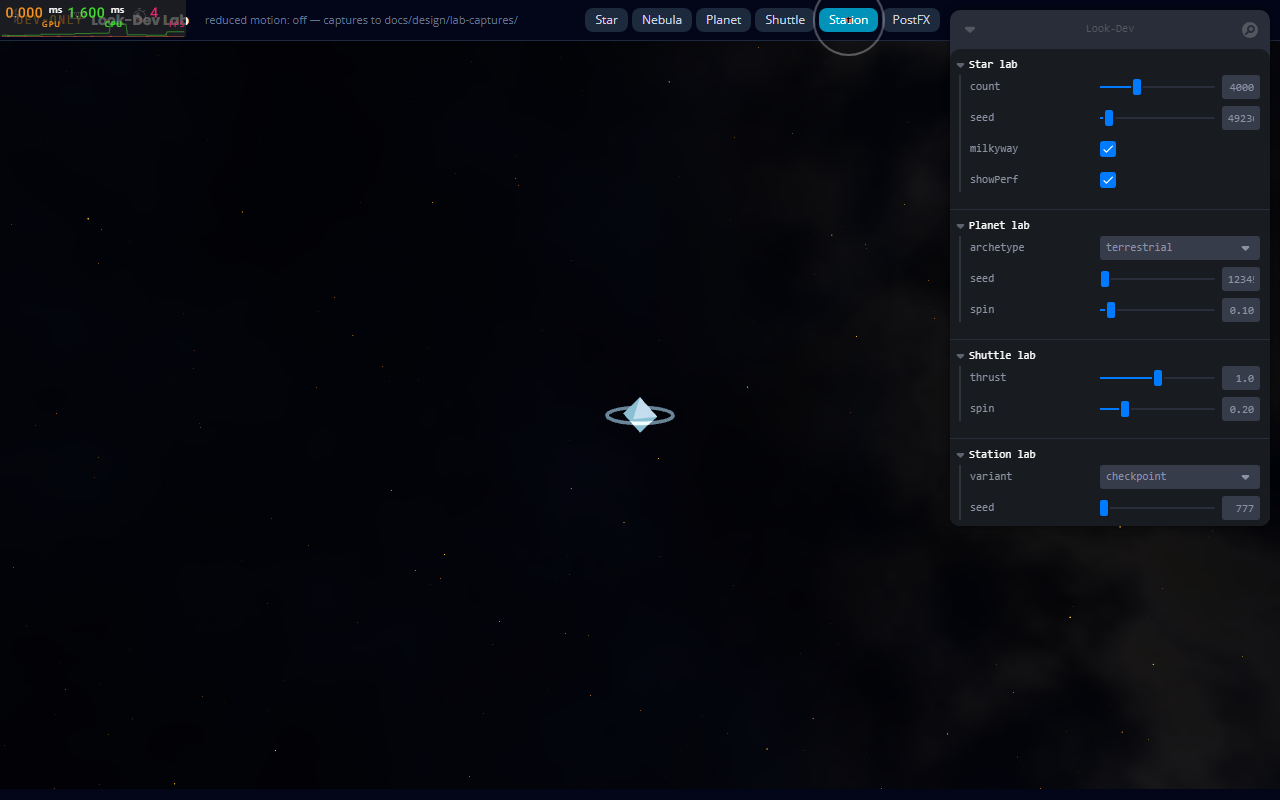
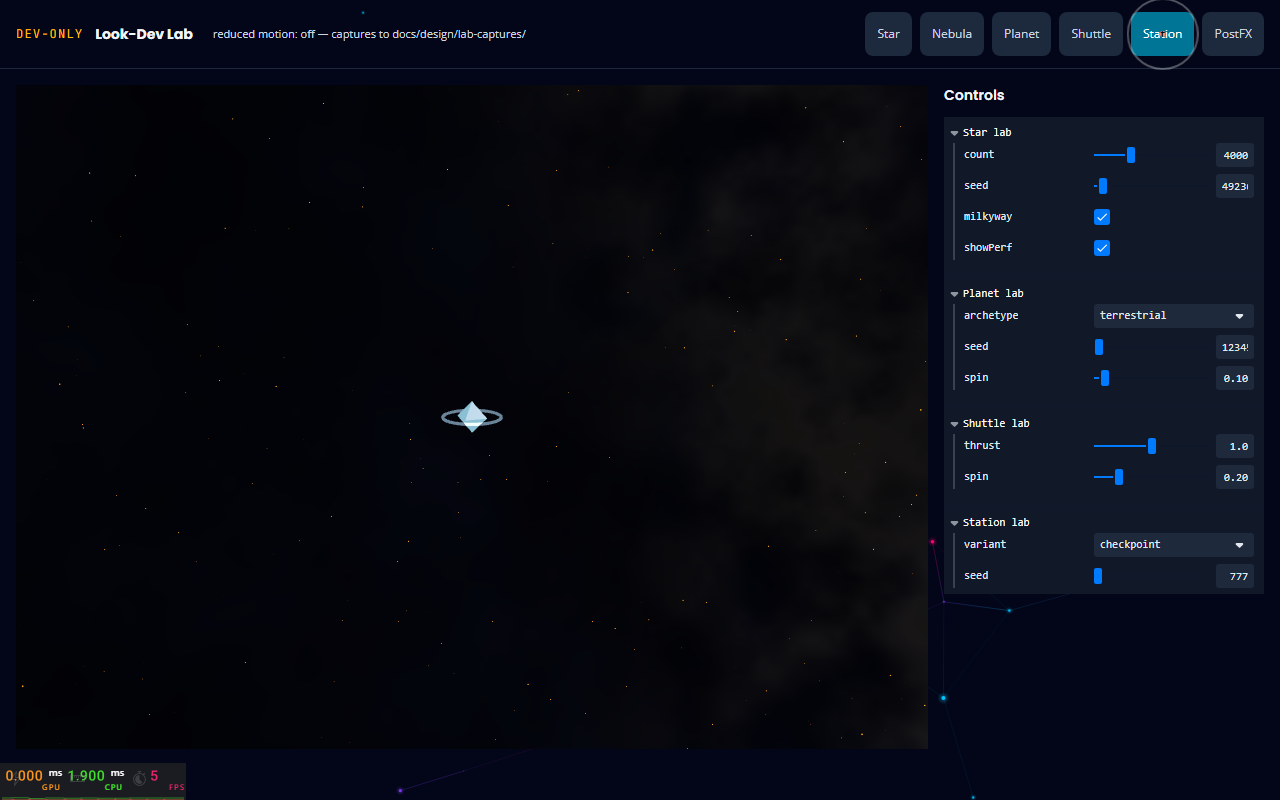
Make Lab controls accessible and keep dev tooling out of production
Reflow controls instead of covering mobile navigation, test pointer and keyboard access at four widths, and scan Leva without exclusions. Gate the lazy import itself and make asset capture tests require the selected variant and reject shader errors.

diff --git a/FrontEnd/src/cosmic/LookDevLab.jsx b/FrontEnd/src/cosmic/LookDevLab.jsx
@@ -153,36 +153,40 @@ export default function LookDevLab() {
 
   return (
     <div className="min-h-screen bg-slate-950 text-slate-100" data-testid="look-dev-lab">
-      <Leva
-        titleBar={{ title: 'Look-Dev' }}
-        collapsed={false}
-        theme={{ sizes: { rootWidth: '320px' } }}
-      />
-      <header className="flex items-center gap-2 pl-4 pr-[340px] py-2 border-b border-slate-800">
+      <header className="flex flex-wrap items-center gap-3 px-4 py-3 border-b border-slate-800">
         <span className="text-xs font-mono uppercase tracking-widest text-amber-400">dev-only</span>
         <h1 className="text-sm font-bold">Look-Dev Lab</h1>
-        <p className="text-[11px] text-slate-500 ml-2">reduced motion: {reduced ? 'on' : 'off'} — captures to docs/design/lab-captures/</p>
-        <nav className="ml-auto flex gap-1" aria-label="Labs">
+        <p className="text-[11px] text-slate-300 ml-2">reduced motion: {reduced ? 'on' : 'off'} — captures to docs/design/lab-captures/</p>
+        <nav className="flex w-full flex-wrap gap-2 lg:w-auto lg:ml-auto" aria-label="Labs">
           {TABS.map((t) => (
             <button
               key={t.id}
               type="button"
               aria-pressed={tab === t.id}
               onClick={() => setTab(t.id)}
-              className={`px-2.5 py-1 text-xs rounded-lg ${tab === t.id ? 'bg-cyan-600 text-white' : 'bg-slate-800 text-slate-300'}`}
+              className={`min-h-11 px-3 py-2 text-xs rounded-lg focus-visible:outline-2 focus-visible:outline-amber-300 ${tab === t.id ? 'bg-cyan-700 text-white' : 'bg-slate-800 text-slate-300'}`}
             >
               {t.label}
             </button>
           ))}
         </nav>
       </header>
-      <main className="h-[calc(100vh-52px)]">
-        <Canvas camera={{ position: [0, 6, 24], fov: 60 }} dpr={[1, 2]} gl={{ antialias: true, toneMapping: THREE.AgXToneMapping }}>
-          <Suspense fallback={null}>
-            {starControls.showPerf && <Perf position="top-left" minimal />}
-            {scene}
-          </Suspense>
-        </Canvas>
+      <main className="grid gap-4 p-4 lg:grid-cols-[minmax(0,1fr)_320px]">
+        <div className="relative min-w-0 h-[55vh] min-h-[320px] lg:h-[calc(100vh-136px)]">
+          <Canvas camera={{ position: [0, 6, 24], fov: 60 }} dpr={[1, 2]} gl={{ antialias: true, toneMapping: THREE.AgXToneMapping }}>
+            <Suspense fallback={null}>
+              {starControls.showPerf && <Perf position="bottom-left" minimal />}
+              {scene}
+            </Suspense>
+          </Canvas>
+        </div>
+        <aside className="min-w-0" aria-label="Lab controls">
+          <h2 className="text-sm font-semibold mb-3">Controls</h2>
+          <Leva fill flat titleBar={false} collapsed={false} theme={{ colors: {
+            elevation1: '#0f172a', elevation2: '#111827', elevation3: '#1e293b',
+            highlight1: '#cbd5e1', highlight2: '#e2e8f0', highlight3: '#f8fafc',
+          } }} />
+        </aside>
       </main>
     </div>
   );

diff --git a/FrontEnd/tests/e2e/a11y-sizes.spec.js b/FrontEnd/tests/e2e/a11y-sizes.spec.js
@@ -1,0 +1,53 @@
+import { test, expect } from '@playwright/test';
+import AxeBuilder from '@axe-core/playwright';
+
+const SIZES = [
+  { name: '360', width: 360, height: 740 },
+  { name: '768', width: 768, height: 1024 },
+  { name: '1280', width: 1280, height: 800 },
+  { name: '1920', width: 1920, height: 1080 },
+];
+
+const SHOTS = '../docs/progress/screenshots';
+
+test.describe('lab captures + a11y', () => {
+  for (const s of SIZES) {
+    test(`lab at ${s.name}px`, async ({ browser }) => {
+      test.setTimeout(120000);
+      const ctx = await browser.newContext({ viewport: { width: s.width, height: s.height } });
+      const page = await ctx.newPage();
+      await page.goto('/dev/lab', { waitUntil: 'domcontentloaded', timeout: 45000 });
+      await expect(page.getByTestId('look-dev-lab')).toBeVisible({ timeout: 20000 });
+      const tabs = page.getByRole('navigation', { name: 'Labs' }).getByRole('button');
+      for (let index = 0; index < await tabs.count(); index++) {
+        const tab = tabs.nth(index);
+        await expect(tab).toBeInViewport();
+        await tab.click({ timeout: 5000 });
+        await expect(tab).toHaveAttribute('aria-pressed', 'true');
+      }
+      await tabs.first().focus();
+      for (let index = 0; index < await tabs.count(); index++) {
+        await expect(tabs.nth(index)).toBeFocused();
+        await page.keyboard.press('Enter');
+        await expect(tabs.nth(index)).toHaveAttribute('aria-pressed', 'true');
+        await page.keyboard.press('Tab');
+      }
+      await page.screenshot({ path: `${SHOTS}/lab-${s.name}.png` });
+      await ctx.close();
+    });
+  }
+
+  test('lab page has no critical/serious a11y violations', async ({ browser }) => {
+    test.setTimeout(120000);
+    const ctx = await browser.newContext({ viewport: { width: 1280, height: 800 } });
+    const page = await ctx.newPage();
+    await page.goto('/dev/lab', { waitUntil: 'domcontentloaded', timeout: 45000 });
+    await expect(page.getByTestId('look-dev-lab')).toBeVisible({ timeout: 20000 });
+    await page.waitForTimeout(1500);
+    const results = await new AxeBuilder({ page })
+      .withTags(['wcag2a', 'wcag2aa', 'wcag21aa', 'wcag22aa'])
+      .analyze();
+    expect(results.violations.map((violation) => ({ id: violation.id, impact: violation.impact, targets: violation.nodes.map((node) => node.target) }))).toEqual([]);
+    await ctx.close();
+  });
+});

diff --git a/FrontEnd/tests/e2e/planet.spec.js b/FrontEnd/tests/e2e/planet.spec.js
@@ -15,7 +15,10 @@ test.describe('planet lab', () => {
       const ctx = await browser.newContext({ viewport: { width: 1280, height: 800 } });
       const page = await ctx.newPage();
       const errors = [];
-      page.on('pageerror', (e) => errors.push(String(e).slice(0, 200)));
+      page.on('pageerror', (e) => errors.push(String(e)));
+      page.on('console', (message) => {
+        if (message.type() === 'error' && /THREE|WebGL|GLSL|shader/i.test(message.text())) errors.push(message.text());
+      });
       await page.goto('/dev/lab', { waitUntil: 'domcontentloaded', timeout: 45000 });
       await expect(page.getByTestId('look-dev-lab')).toBeVisible({ timeout: 20000 });
       await page.waitForTimeout(2000); // let leva + webgl settle
@@ -23,21 +26,15 @@ test.describe('planet lab', () => {
       const nav = page.getByRole('navigation', { name: 'Labs' });
       await nav.getByRole('button', { name: 'Planet', exact: true }).click();
       await page.waitForTimeout(500);
-      // Leva archetype select: find the select labeled by the Planet lab panel
-      const selects = page.locator('select');
-      const count = await selects.count();
-      for (let i = 0; i < count; i++) {
-        const opts = await selects.nth(i).locator('option').allTextContents().catch(() => []);
-        if (opts.includes('terrestrial') || opts.includes(arch)) {
-          await selects.nth(i).selectOption(arch);
-          break;
-        }
-      }
+      const select = page.locator('select').filter({ has: page.locator('option').filter({ hasText: /^terrestrial$/ }) });
+      await expect(select).toHaveCount(1);
+      await select.selectOption({ label: arch });
+      await expect(select.locator('option:checked')).toHaveText(arch);
       await page.waitForTimeout(1500); // let the shader settle
       const shot = `${SHOTS}/planet-${arch}-1280.png`;
       await page.screenshot({ path: shot });
       console.log('capture:', shot, '| pageerrors:', errors.length ? errors.join(' ;; ') : 'none');
-      expect(errors.join(' ')).not.toMatch(/WebGL|GLSL|shader|THREE\.WebGL/i);
+      expect(errors).toEqual([]);
       await ctx.close();
     });
   }

diff --git a/FrontEnd/tests/e2e/station.spec.js b/FrontEnd/tests/e2e/station.spec.js
@@ -9,27 +9,25 @@ test.describe('station lab', () => {
       const ctx = await browser.newContext({ viewport: { width: 1280, height: 800 } });
       const page = await ctx.newPage();
       const errors = [];
-      page.on('pageerror', (e) => errors.push(String(e).slice(0, 200)));
+      page.on('pageerror', (e) => errors.push(String(e)));
+      page.on('console', (message) => {
+        if (message.type() === 'error' && /THREE|WebGL|GLSL|shader/i.test(message.text())) errors.push(message.text());
+      });
       await page.goto('/dev/lab', { waitUntil: 'domcontentloaded', timeout: 45000 });
       await expect(page.getByTestId('look-dev-lab')).toBeVisible({ timeout: 20000 });
       await page.waitForTimeout(2000);
       const nav = page.getByRole('navigation', { name: 'Labs' });
       await nav.getByRole('button', { name: 'Station', exact: true }).click();
       await page.waitForTimeout(400);
-      const selects = page.locator('select');
-      const n = await selects.count();
-      for (let i = 0; i < n; i++) {
-        const opts = await selects.nth(i).locator('option').allTextContents().catch(() => []);
-        if (opts.includes('checkpoint') && opts.includes('boss')) {
-          await selects.nth(i).selectOption(v);
-          break;
-        }
-      }
+      const select = page.locator('select').filter({ has: page.locator('option').filter({ hasText: /^checkpoint$/ }) });
+      await expect(select).toHaveCount(1);
+      await select.selectOption({ label: v });
+      await expect(select.locator('option:checked')).toHaveText(v);
       await page.waitForTimeout(1500);
       const shot = `${SHOTS}/station-${v}-1280.png`;
       await page.screenshot({ path: shot });
       console.log('capture:', shot, '| pageerrors:', errors.length ? errors.join(' ;; ') : 'none');
-      expect(errors.join(' ')).not.toMatch(/WebGL|GLSL|shader|THREE\.WebGL/i);
+      expect(errors).toEqual([]);
       await ctx.close();
     });
   }

diff --git a/FrontEnd/tests/e2e/cosmic.captures.spec.js b/FrontEnd/tests/e2e/cosmic.captures.spec.js
@@ -7,13 +7,14 @@
  * visual quality. Run the Look-Dev Lab + this spec; real-GPU verification is
  * still needed on a real browser before budgets count as met.
  */
+import process from 'node:process';
 import { test } from '@playwright/test';
 
 const BASE = process.env.ORBIT_BASE_URL || 'http://127.0.0.1:5173';
 const SHOTS = '../docs/progress/screenshots';
 
-test.describe('world view states', () => {
-  test('course learn page: 2D fallback healthy at 1280 (reduced motion)', async ({ browser }) => {
+test.describe('login smoke captures', () => {
+  test('login at 1280 with reduced motion', async ({ browser }) => {
     const ctx = await browser.newContext({ viewport: { width: 1280, height: 800 }, reducedMotion: 'reduce' });
     const page = await ctx.newPage();
     // CourseLearn needs auth + course id; capture the unauthenticated redirect instead:
@@ -23,7 +24,7 @@ test.describe('world view states', () => {
     await ctx.close();
   });
 
-  test('course learn page at 360 (mobile, reduced motion)', async ({ browser }) => {
+  test('login at 360 with reduced motion', async ({ browser }) => {
     const ctx = await browser.newContext({ viewport: { width: 360, height: 740 }, reducedMotion: 'reduce' });
     const page = await ctx.newPage();
     await page.goto(`${BASE}/login`, { waitUntil: 'domcontentloaded', timeout: 30000 });

diff --git a/FrontEnd/src/App.jsx b/FrontEnd/src/App.jsx
@@ -140,7 +140,7 @@ const LiftoffOverlay = lazy(() => import('./cosmic/LiftoffOverlay'));
 const AdminGate = lazy(() => import('./admin/AdminGate'));
 
 // Look-Dev Lab (dev-only route /dev/lab; leva + r3f-perf load only when visited)
-const LookDevLab = lazy(() => import('./cosmic/LookDevLab'));
+const LookDevLab = import.meta.env.DEV ? lazy(() => import('./cosmic/LookDevLab')) : null;
 
 const PageLoader = () => (
   <div className="flex items-center justify-center py-24">

diff --git a/FrontEnd/playwright.config.js b/FrontEnd/playwright.config.js
@@ -1,3 +1,4 @@
+import process from 'node:process';
 import { defineConfig } from '@playwright/test';
 export default defineConfig({
   testDir: './tests/e2e',
